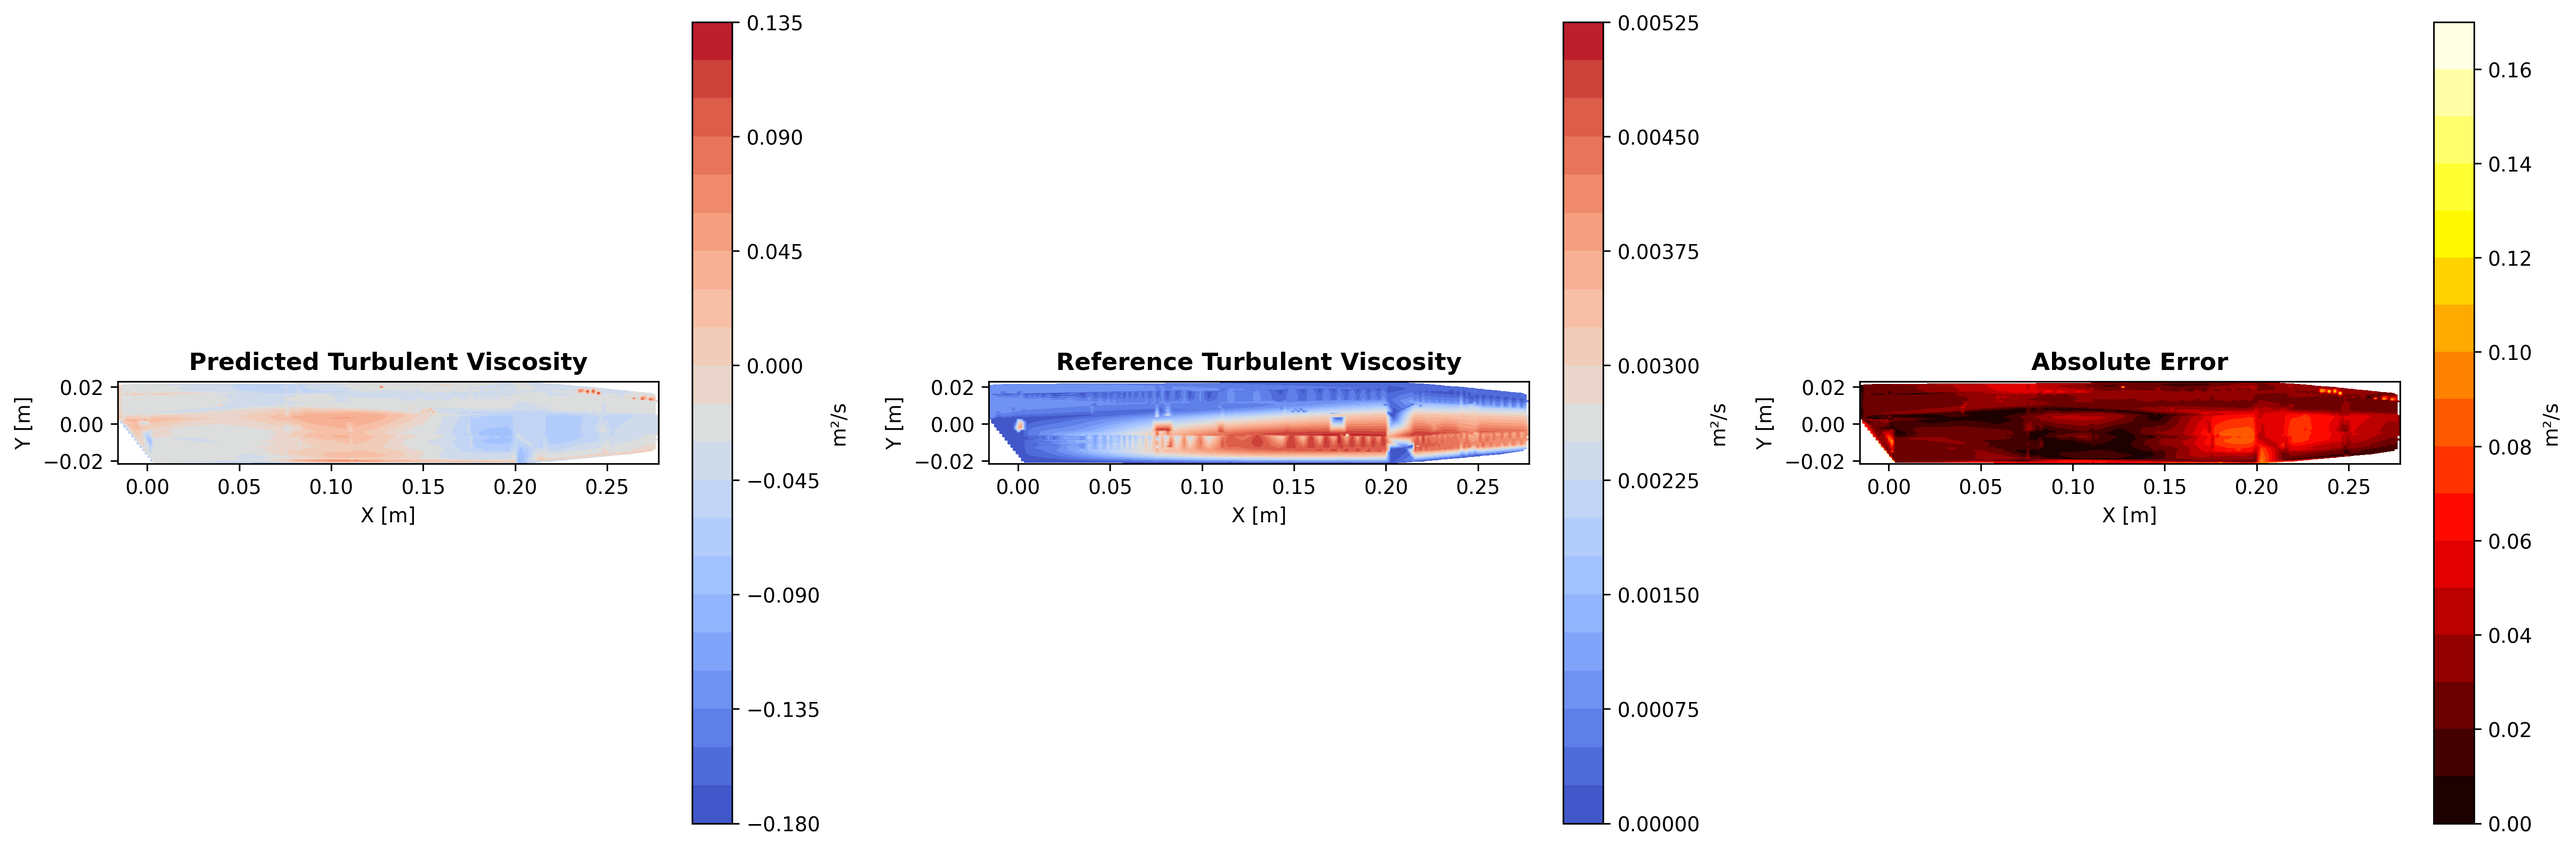
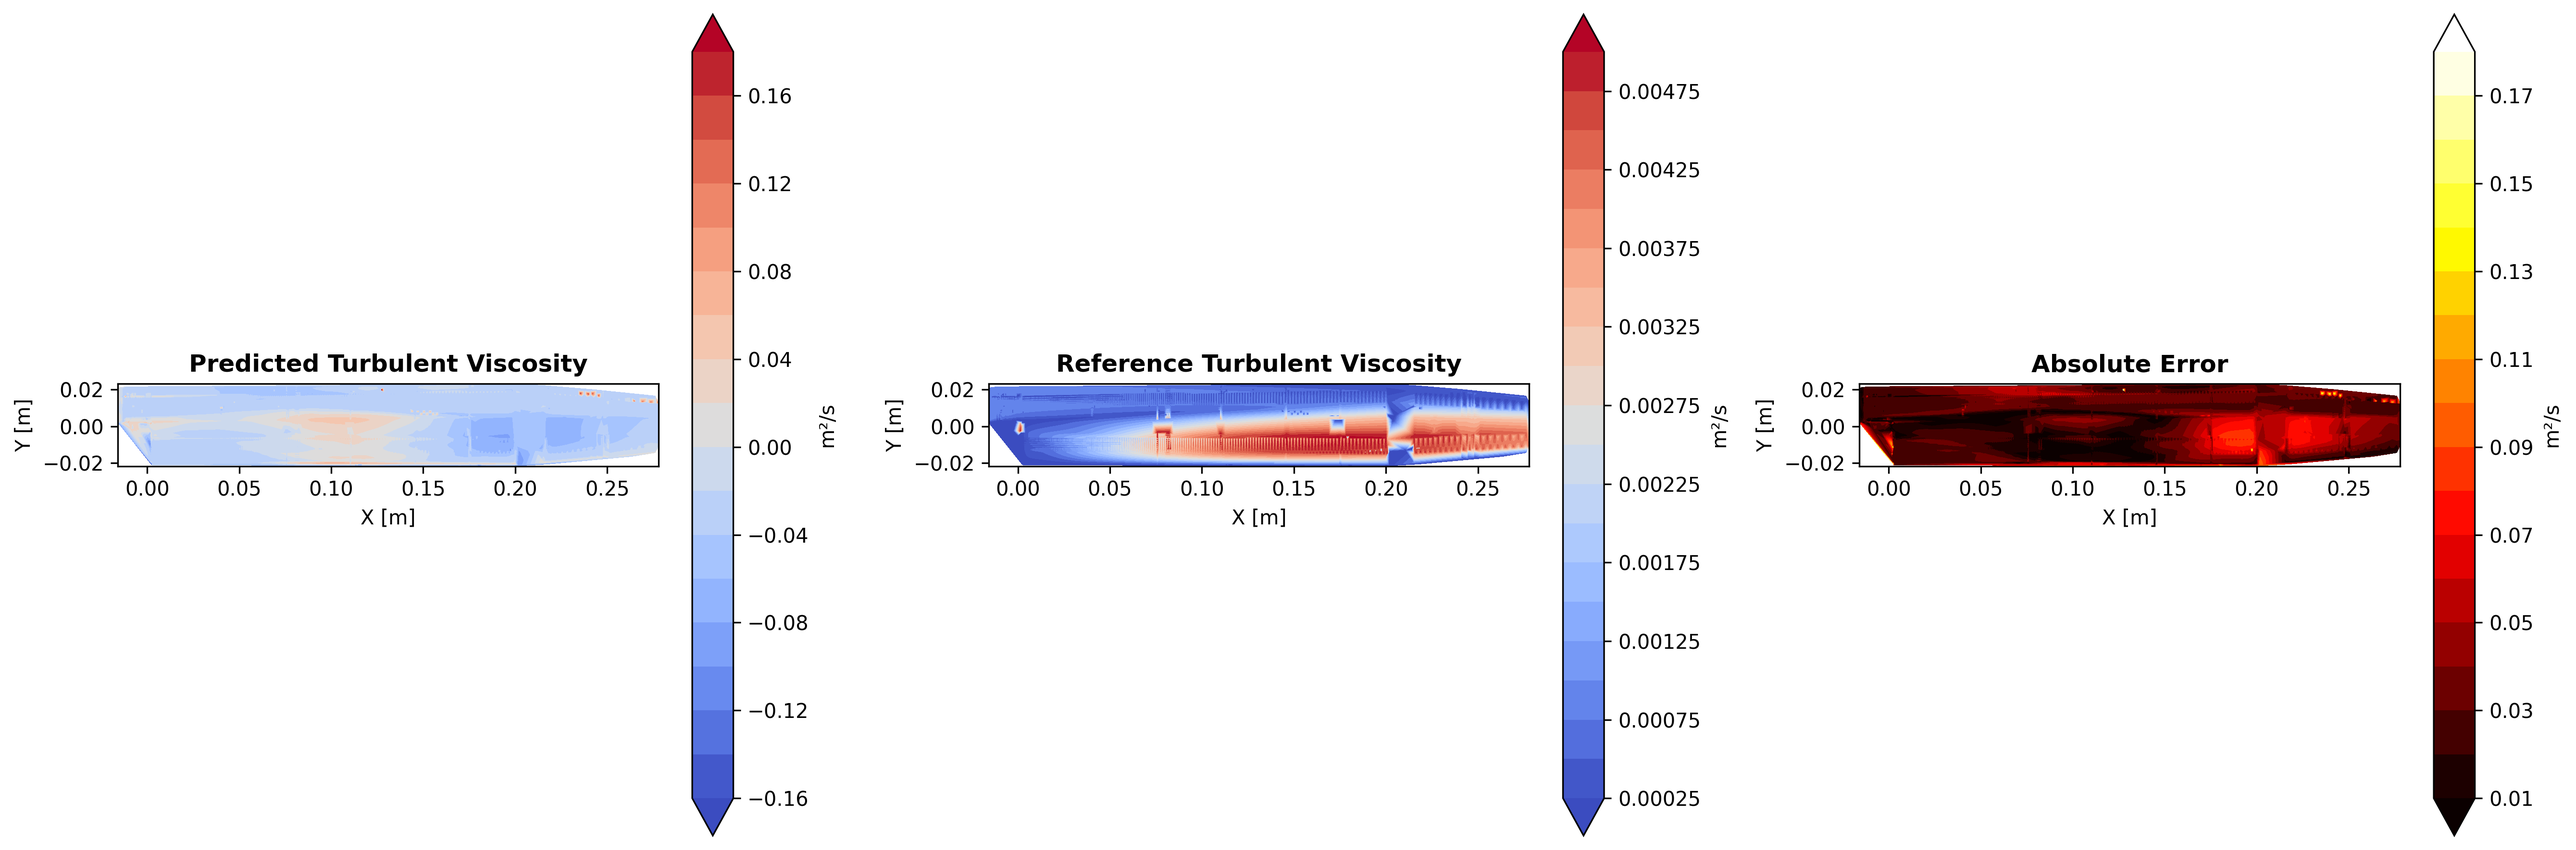
try to fix the plot

diff --git a/visualize.py b/visualize.py
@@ -179,38 +179,34 @@ def compare_fields(predicted_fields, reference_fields, cell_centers, output_dir)
         # Create comparison figure
         fig, axes = plt.subplots(1, 3, figsize=(18, 6))
         
-        # Predicted
+        # Use triangulation-based contouring for unstructured mesh (removes artifacts)
         x = cell_centers[:, 0]
         y = cell_centers[:, 1]
-        nx, ny = 200, 200
-        xi = np.linspace(x.min(), x.max(), nx)
-        yi = np.linspace(y.min(), y.max(), ny)
-        Xi, Yi = np.meshgrid(xi, yi)
         
-        from scipy.interpolate import griddata
+        from matplotlib.tri import Triangulation
         
-        # Predicted field
-        Zi_pred = griddata((x, y), pred_mag, (Xi, Yi), method='linear', fill_value=np.nan)
-        im1 = axes[0].contourf(Xi, Yi, Zi_pred, levels=20, cmap=config['cmap'])
+        # Create triangulation from cell centers
+        tri = Triangulation(x, y)
+        
+        # Predicted field - use tricontourf for smooth unstructured mesh visualization
+        im1 = axes[0].tricontourf(tri, pred_mag, levels=20, cmap=config['cmap'], extend='both')
         axes[0].set_title(f'Predicted {config["name"]}', fontsize=12, fontweight='bold')
         axes[0].set_xlabel('X [m]')
         axes[0].set_ylabel('Y [m]')
         axes[0].set_aspect('equal')
         plt.colorbar(im1, ax=axes[0], label=config['unit'])
         
-        # Reference
-        Zi_ref = griddata((x, y), ref_mag, (Xi, Yi), method='linear', fill_value=np.nan)
-        im2 = axes[1].contourf(Xi, Yi, Zi_ref, levels=20, cmap=config['cmap'])
+        # Reference - use tricontourf for smooth unstructured mesh visualization
+        im2 = axes[1].tricontourf(tri, ref_mag, levels=20, cmap=config['cmap'], extend='both')
         axes[1].set_title(f'Reference {config["name"]}', fontsize=12, fontweight='bold')
         axes[1].set_xlabel('X [m]')
         axes[1].set_ylabel('Y [m]')
         axes[1].set_aspect('equal')
         plt.colorbar(im2, ax=axes[1], label=config['unit'])
         
-        # Error
+        # Error - use tricontourf for smooth unstructured mesh visualization
         error = np.abs(pred_mag - ref_mag)
-        Zi_err = griddata((x, y), error, (Xi, Yi), method='linear', fill_value=np.nan)
-        im3 = axes[2].contourf(Xi, Yi, Zi_err, levels=20, cmap='hot')
+        im3 = axes[2].tricontourf(tri, error, levels=20, cmap='hot', extend='both')
         axes[2].set_title(f'Absolute Error', fontsize=12, fontweight='bold')
         axes[2].set_xlabel('X [m]')
         axes[2].set_ylabel('Y [m]')
